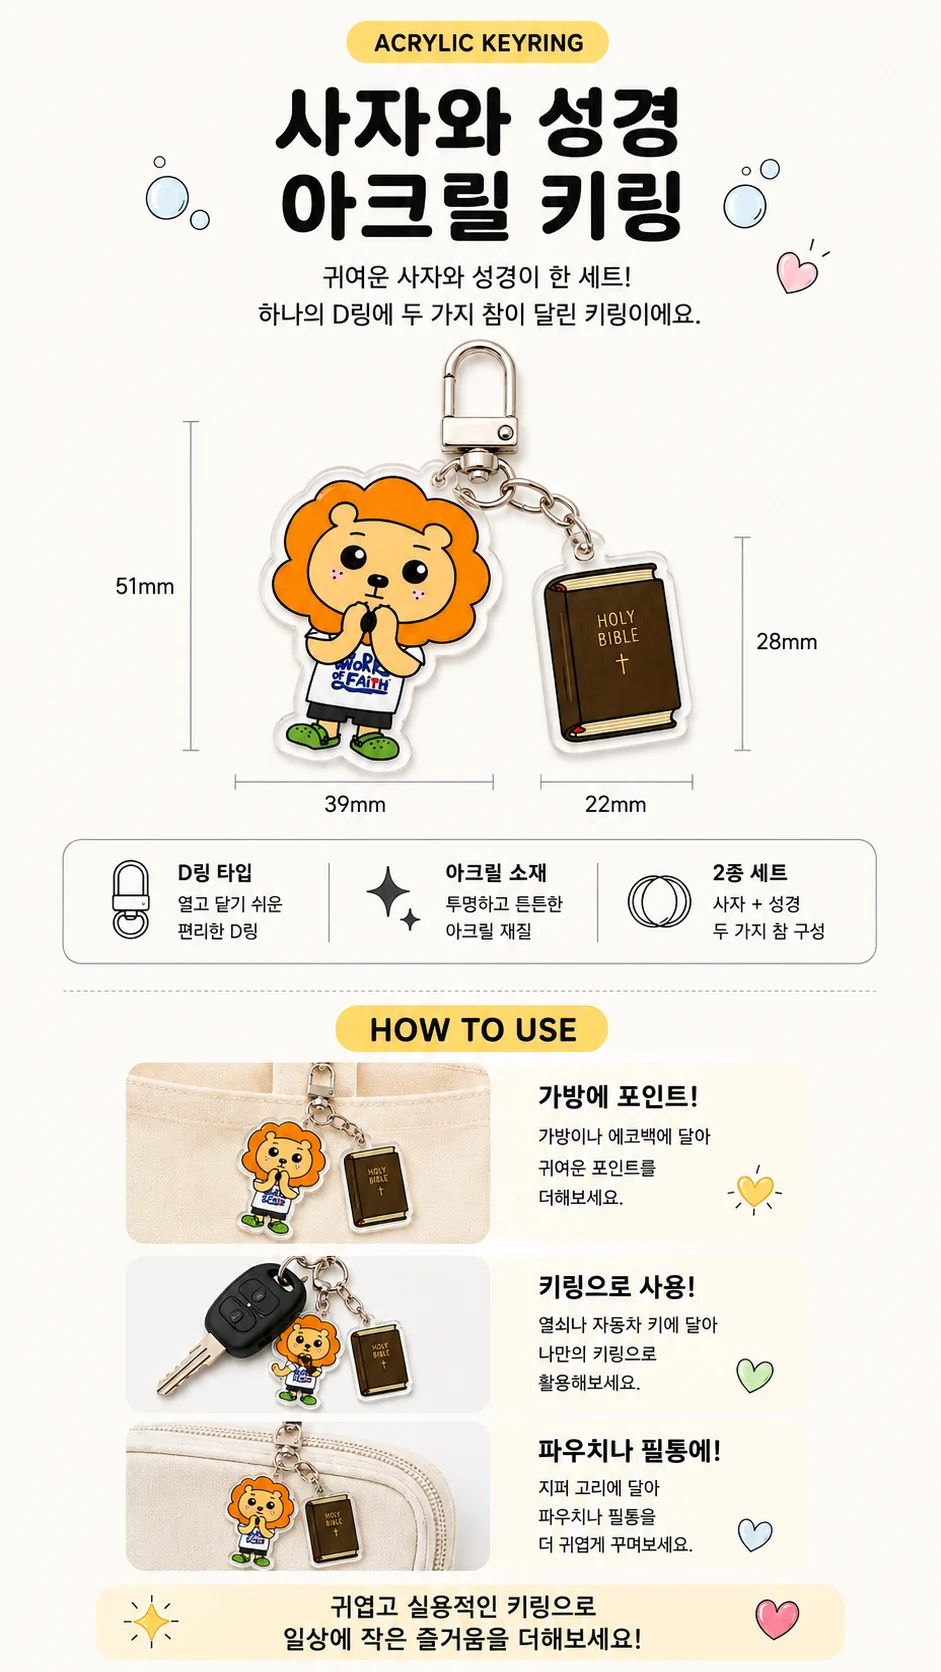
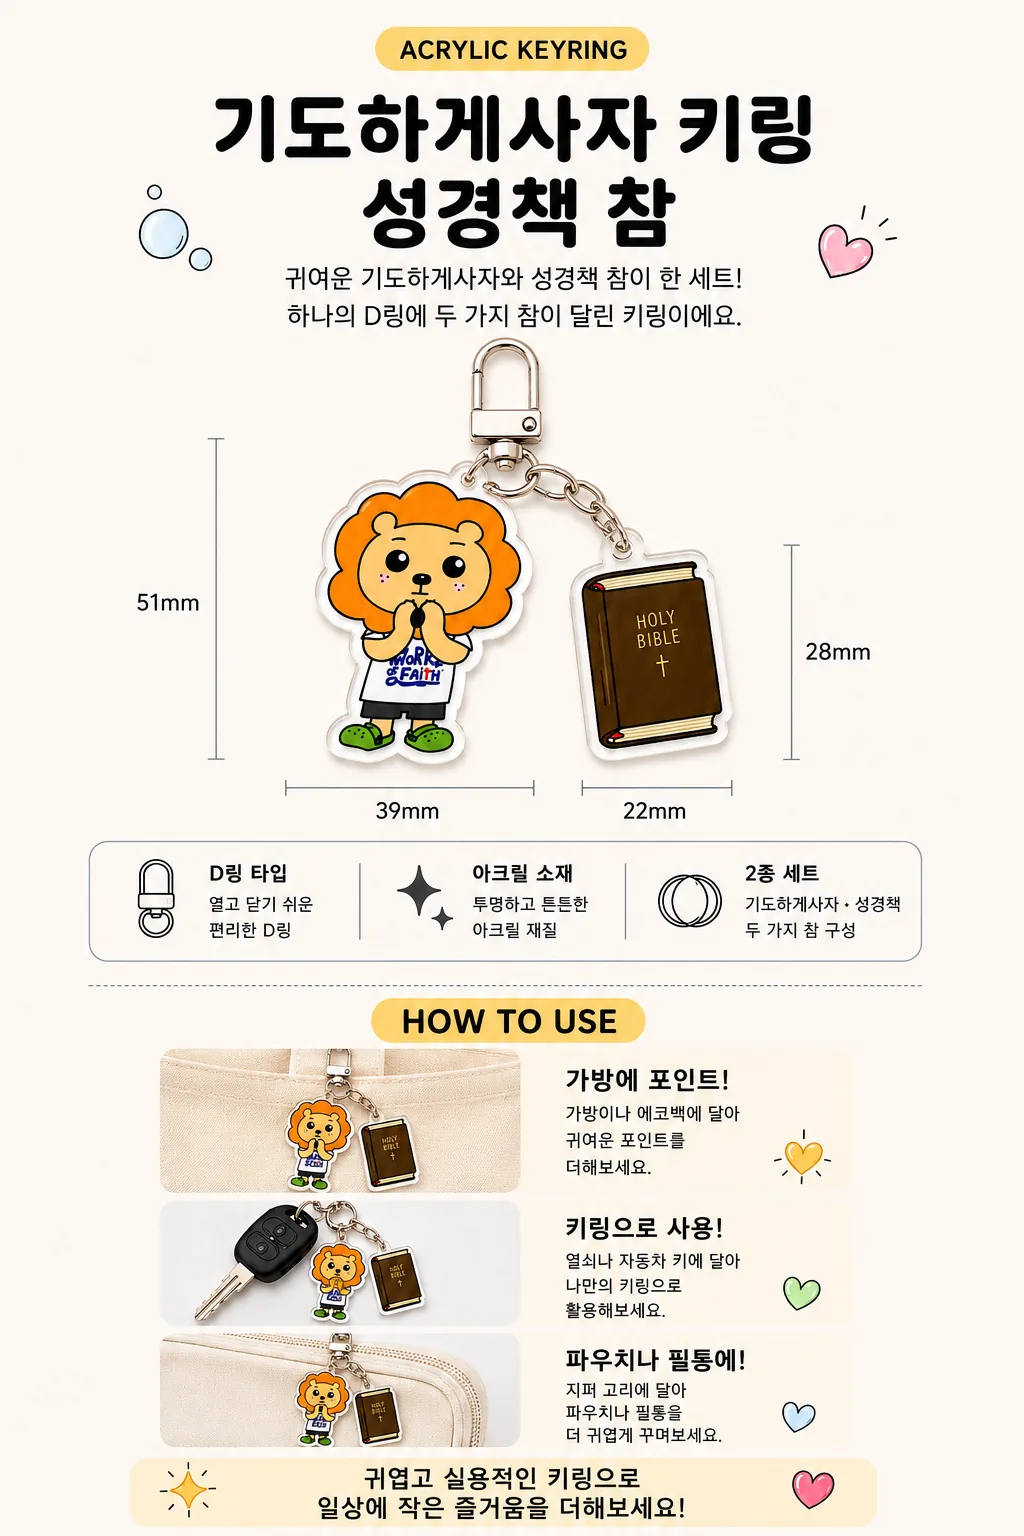
키링 상세 이미지를 새 상세페이지로 교체
받은 상세페이지 5장을 각 키링에 넣고, 이미지에 적힌 이름과 표기를
맞췄다.

· 기도하계사자 → 기도하게사자 (상세 이미지 표기)
· 미선부봉사자 아아 참 → 아이스커피 참 (상세 이미지 표기)
· 소개 문구를 상세 이미지 첫 줄과 같은 말로 통일

상세 이미지의 치수(사자·참 mm)가 굿즈 정보 표와 모두 일치하는 것을
확인했다.

Claude-Session: https://claude.ai/code/session_01Tpod5AeQXBsn8j7PCqfRzo

diff --git a/src/data/products.ts b/src/data/products.ts
@@ -111,7 +111,7 @@ export const PRODUCTS: Product[] = [
     name: '주방봉사자 키링 + 스펀지 참',
     shortName: '주방봉사자',
     price: 4000,
-    description: ['주방봉사 나가는 사자와 스펀지 참이 한 세트!', ...LION_SET_DESC],
+    description: ['귀여운 주방봉사자와 스펀지 참이 한 세트!', ...LION_SET_DESC],
     category: 'keyring',
     bg: 'var(--color-lavender)',
     photo: '/sponge-lion.webp',
@@ -131,7 +131,7 @@ export const PRODUCTS: Product[] = [
     name: '식사봉사자 키링 + 주걱 참',
     shortName: '식사봉사자',
     price: 4000,
-    description: ['식사봉사 나가는 사자와 주걱 참이 한 세트!', ...LION_SET_DESC],
+    description: ['귀여운 식사봉사자와 주걱 참이 한 세트!', ...LION_SET_DESC],
     category: 'keyring',
     bg: 'var(--color-pink)',
     photo: '/spatula-lion.webp',
@@ -148,18 +148,18 @@ export const PRODUCTS: Product[] = [
   },
   {
     id: 'coffee-lion',
-    name: '미선부봉사자 키링 + 아아 참',
+    name: '미선부봉사자 키링 + 아이스커피 참',
     shortName: '미선부봉사자',
     price: 4000,
-    description: ['미선부 사자와 아이스 아메리카노 참이 한 세트!', ...LION_SET_DESC],
+    description: ['귀여운 미선부봉사자와 아이스커피 참이 한 세트!', ...LION_SET_DESC],
     category: 'keyring',
     bg: 'var(--color-cream)',
     photo: '/coffee-lion.webp',
     detailImage: '/coffee-lion-detail.webp',
     specs: [
-      { label: '사이즈', value: '사자 51×39mm · 아아 참 31×19mm' },
+      { label: '사이즈', value: '사자 51×39mm · 아이스커피 참 31×19mm' },
       { label: '재질', value: '투명하고 튼튼한 아크릴' },
-      { label: '구성', value: '2종 세트 (사자 + 아아 참)' },
+      { label: '구성', value: '2종 세트 (사자 + 아이스커피 참)' },
       { label: '키링 타입', value: '열고 닫기 쉬운 D링' },
     ],
     isNew: true,
@@ -171,7 +171,7 @@ export const PRODUCTS: Product[] = [
     name: 'TFT봉사자 키링 + 회오리감자 참',
     shortName: 'TFT봉사자',
     price: 4000,
-    description: ['TFT 사자와 회오리감자 참이 한 세트!', ...LION_SET_DESC],
+    description: ['귀여운 TFT봉사자와 회오리감자 참이 한 세트!', ...LION_SET_DESC],
     category: 'keyring',
     bg: 'var(--color-cream)',
     photo: '/snack-lion.webp',
@@ -188,10 +188,10 @@ export const PRODUCTS: Product[] = [
   },
   {
     id: 'bible-lion',
-    name: '기도하계사자 키링 + 성경책 참',
-    shortName: '기도하계사자',
+    name: '기도하게사자 키링 + 성경책 참',
+    shortName: '기도하게사자',
     price: 4000,
-    description: ['기도하는 사자와 성경책 참이 한 세트!', ...LION_SET_DESC],
+    description: ['귀여운 기도하게사자와 성경책 참이 한 세트!', ...LION_SET_DESC],
     category: 'keyring',
     bg: 'var(--color-cream)',
     photo: '/bible-lion.webp',
